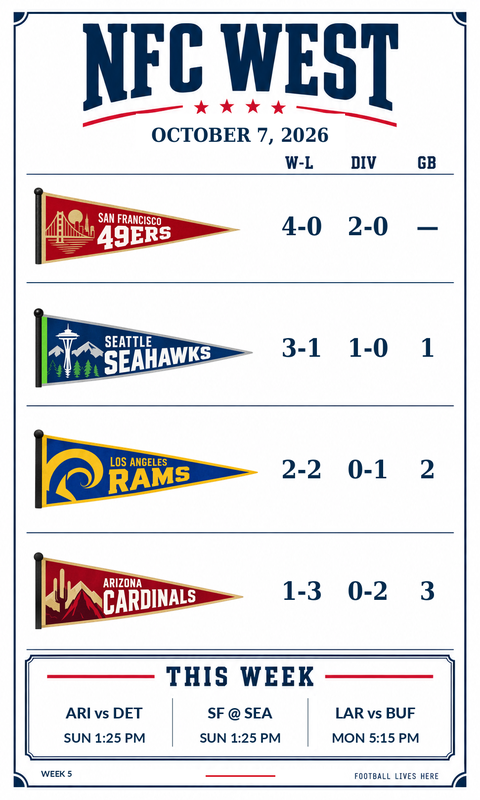
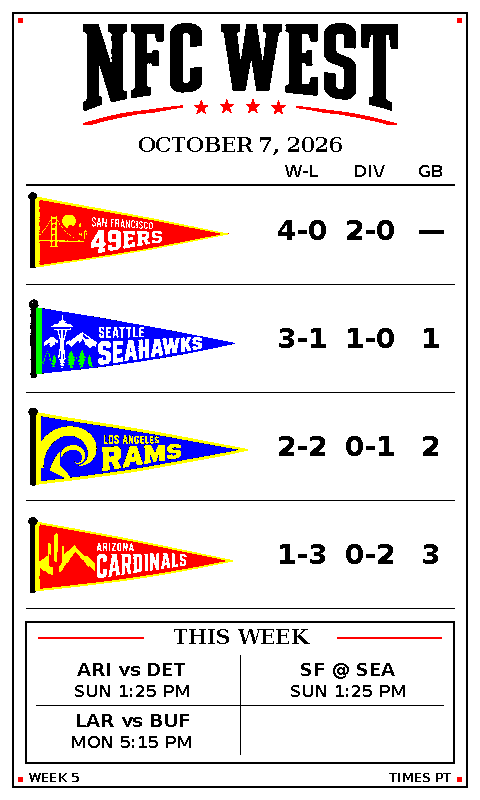
Optimize NFC West artwork for E1002 and add text-only pennants

diff --git a/nfl.html b/nfl.html
@@ -30,7 +30,8 @@
     <section class="card">
       <img id="display" src="public/nfl_nfc_west.png" alt="NFC West standings e-paper display" width="480" height="800">
       <nav>
-        <a href="public/nfl_nfc_west.png">Open PNG</a>
+        <a href="public/nfl_nfc_west.png">Illustrated PNG</a>
+        <a href="public/nfl_nfc_west_text.png">Text-only PNG</a>
         <a href="https://github.com/Dave356w/sports-display-renderer">Repository</a>
       </nav>
       <div class="meta">The image is regenerated automatically by GitHub Actions.</div>

diff --git a/render_nfl.py b/render_nfl.py
@@ -1,8 +1,8 @@
 """Render the 7.3-inch e-paper NFC West standings collectible.
 
-This is the NFL companion to ``render.py``. It follows the same device path:
-compose at the 971x1619 artwork resolution, overlay live data, then downsample
-to the reTerminal E1002's native 480x800 portrait pixel grid.
+This is the NFL companion to ``render.py``. Artwork is scaled first, then
+type and rules are drawn on the E1002's native 480x800 portrait pixel grid.
+The RGB PNG contains only the panel's six nominal colors, without dithering.
 
 Static artwork lives in ``assets/nfl/``. Dynamic overlays are:
   * current Pacific date
@@ -18,6 +18,7 @@ deterministic 2026 Week 1 layout test.
 from __future__ import annotations
 
 import csv
+import colorsys
 import io
 import os
 from datetime import datetime, timedelta
@@ -47,22 +48,28 @@ TIE_ORDER = {abbr: i for i, abbr in enumerate(NFC_WEST)}
 # nflverse abbreviates the Rams "LA"; the artwork and layout use "LAR".
 TEAM_ALIASES = {"LA": "LAR"}
 
-NAVY = (4, 43, 78)
-GREY = (118, 135, 148)
-FONT_HEAVY = "/usr/share/fonts/truetype/lato/Lato-Heavy.ttf"
-FONT_BOLD = "/usr/share/fonts/truetype/lato/Lato-Bold.ttf"
-FONT_SERIF = "/usr/share/fonts/truetype/dejavu/DejaVuSerifCondensed-Bold.ttf"
+BLACK = (0, 0, 0)
+WHITE = (255, 255, 255)
+RED = (255, 0, 0)
+GREEN = (0, 255, 0)
+BLUE = (0, 0, 255)
+YELLOW = (255, 255, 0)
+PANEL_COLORS = (BLACK, WHITE, RED, GREEN, BLUE, YELLOW)
+FONT_HEAVY = "/usr/share/fonts/truetype/dejavu/DejaVuSans-Bold.ttf"
+FONT_BOLD = FONT_HEAVY
+FONT_SERIF = "/usr/share/fonts/truetype/dejavu/DejaVuSerif-Bold.ttf"
 FONT_FALLBACK = "/usr/share/fonts/truetype/dejavu/DejaVuSans-Bold.ttf"
 
-# Calibrated against the 971x1619 white-background NFC West master.
-ROW_CENTERS = (458, 704, 950, 1196)
-STAT_X = (610, 744, 865)  # W-L, DIV, GB
-DATE_X, DATE_Y = 486, 273
+# All layout measurements below are final device pixels.
+ROW_CENTERS = (230, 338, 446, 554)
+STAT_X = (302, 370, 431)  # W-L, DIV, GB
+STAT_WIDTHS = (68, 62, 44)
+DATE_X, DATE_Y = 240, 145
 # Where the pole's left edge lands once the transparent margin is trimmed off.
 # Set to the column SEA and LAR already hung from, so the two clubs that were
 # in line stay put and the two that were inset move out to meet them.
-PENNANT_POLE_X = 68
-PENNANT_MAX_SIZE = (487, 182)
+PENNANT_POLE_X = 28
+PENNANT_MAX_SIZE = (236, 91)
 # ARI's artwork trails ~27px of alpha=1..8 haze past its pole — invisible on the
 # panel but enough to defeat a plain alpha>0 trim, which would leave that club
 # hanging alone to the right. Ignore anything at or below this when measuring
@@ -297,7 +304,7 @@ def status_label(game: dict) -> str:
     return time_label(game["dt"])
 
 
-def load_pennant(abbr: str) -> Image.Image:
+def load_pennant(abbr: str, style: str = "illustrated") -> Image.Image:
     """The club's pennant, scaled to the row and trimmed to its own artwork.
 
     The four source files carry the same 2172x724 canvas but pad the artwork
@@ -310,6 +317,21 @@ def load_pennant(abbr: str) -> Image.Image:
     the pennants keep their relative lengths instead of being stretched to a
     uniform footprint.
     """
+    if style == "text":
+        # Regions in the generated exploration sheet. Kept as a separate asset
+        # so the original illustrated pennants remain available unchanged.
+        boxes = {
+            "SF": (23, 30, 1067, 419),
+            "SEA": (23, 436, 1067, 780),
+            "LAR": (23, 794, 1067, 1111),
+            "ARI": (23, 1122, 1067, 1420),
+        }
+        with Image.open(ASSETS / "text-only-pennants.png") as sheet:
+            pennant = sheet.crop(boxes[abbr]).convert("RGBA")
+        pennant.thumbnail(PENNANT_MAX_SIZE, Image.Resampling.LANCZOS)
+        return pennant
+    if style != "illustrated":
+        raise ValueError(f"Unknown pennant style: {style}")
     pennant_path = ASSETS / f"{abbr}.png"
     if not pennant_path.exists():
         raise FileNotFoundError(f"Missing NFL pennant artwork: {pennant_path}")
@@ -322,62 +344,124 @@ def load_pennant(abbr: str) -> Image.Image:
     return pennant.crop(bbox) if bbox else pennant
 
 
-def render(standings: list[dict], week: int | None, games: list[dict], now: datetime) -> Image.Image:
+def panel_artwork(source: Image.Image, *, title: bool = False) -> Image.Image:
+    """Flatten artwork to six nominal RGB primaries, with no error diffusion.
+
+    Hue mapping deliberately preserves navy as blue and burgundy as red in
+    pennants: nearest-RGB quantization would collapse both to black. The title
+    uses black instead of navy. Whites/neutral shadows are thresholded, avoiding
+    the gray or cream pixels that a downstream converter can turn into speckles.
+    These are encoding colors, not a claim of measured physical ink appearance.
+    """
+    rgba = source.convert("RGBA")
+    flat = Image.new("RGBA", rgba.size, WHITE + (255,))
+    flat.alpha_composite(rgba)
+    rgb = flat.convert("RGB")
+    mapping = {}
+    for color in set(rgb.getdata()):
+        r, g, b = color
+        hue, saturation, value = colorsys.rgb_to_hsv(r / 255, g / 255, b / 255)
+        if value < 0.18:
+            ink = BLACK
+        elif saturation < 0.24:
+            ink = WHITE if value >= 0.60 else BLACK
+        elif min(color) >= 175:
+            ink = WHITE
+        elif hue < 0.095 or hue >= 0.92:
+            ink = RED
+        elif title:
+            ink = BLACK
+        elif hue < 0.19:
+            ink = YELLOW
+        elif hue < 0.48:
+            ink = GREEN
+        else:
+            ink = BLUE
+        mapping[color] = ink
+    rgb.putdata([mapping[color] for color in rgb.getdata()])
+    return rgb
+
+
+def fitted_font(text: str, path: str, size: int, width: int, minimum: int = 14):
+    """Fit a complete label, including late-season/tied records, to its cell."""
+    for candidate in range(size, minimum - 1, -1):
+        font = load_font(path, candidate)
+        left, _, right, _ = font.getbbox(text)
+        if max(right - left, font.getlength(text)) <= width:
+            return font
+    raise ValueError(f"Label does not fit in {width}px at {minimum}px: {text!r}")
+
+
+def render(standings: list[dict], week: int | None, games: list[dict], now: datetime,
+           pennant_style: str = "illustrated") -> Image.Image:
     background = ASSETS / "background.png"
     if not background.exists():
         raise FileNotFoundError(f"Missing NFL background artwork: {background}")
-    img = Image.open(background).convert("RGBA")
+    img = Image.new("RGB", DEVICE_OUTPUT_SIZE, WHITE)
+    # Retain the original vintage masthead; draw structural artwork directly at
+    # native size so one-pixel rules and small glyphs are never downsampled.
+    with Image.open(background) as master:
+        title = master.convert("RGB").resize(DEVICE_OUTPUT_SIZE, Image.Resampling.LANCZOS)
+        img.paste(panel_artwork(title.crop((32, 16, 448, 125)), title=True), (32, 16))
     draw = ImageDraw.Draw(img)
+    draw.fontmode = "1"  # hard black/white glyph edges, no gray antialias pixels
+    draw.rectangle((12, 12, 467, 787), outline=BLACK, width=2)
+    for x in (20, 459):
+        for y in (20, 779):
+            draw.rectangle((x - 2, y - 2, x + 2, y + 2), fill=RED)
 
-    # The generated background includes placeholder date/footer text, so clear
-    # those dynamic zones and redraw them with live values.
-    draw.rectangle((275, 230, 697, 303), fill=(255, 255, 255, 255))
-    draw.text(
-        (DATE_X, DATE_Y),
-        now.strftime("%B %-d, %Y").upper(),
-        font=load_font(FONT_SERIF, 39),
-        fill=NAVY,
-        anchor="mm",
-    )
+    date = now.strftime("%B %-d, %Y").upper()
+    draw.text((DATE_X, DATE_Y), date,
+              font=fitted_font(date, FONT_SERIF, 20, 420), fill=BLACK, anchor="mm")
+    for x, label in zip(STAT_X, ("W-L", "DIV", "GB")):
+        draw.text((x, 171), label, font=load_font(FONT_HEAVY, 16), fill=BLACK, anchor="mm")
+    draw.line((26, 184, 454, 184), fill=BLACK, width=2)
 
-    stat_font = load_font(FONT_SERIF, 51)
     for slot, row in enumerate(standings[:4]):
-        pennant = load_pennant(row['abbr'])
+        pennant = panel_artwork(load_pennant(row["abbr"], pennant_style))
         cy = ROW_CENTERS[slot]
-        py = int(cy - pennant.height / 2)
-        img.alpha_composite(pennant, (PENNANT_POLE_X, py))
-        draw.text((STAT_X[0], cy), row["wl"], font=stat_font, fill=NAVY, anchor="mm")
-        draw.text((STAT_X[1], cy), row["div"], font=stat_font, fill=NAVY, anchor="mm")
-        draw.text((STAT_X[2], cy), row["gb"], font=stat_font, fill=NAVY, anchor="mm")
+        img.paste(pennant, (PENNANT_POLE_X, cy - pennant.height // 2))
+        for x, width, key in zip(STAT_X, STAT_WIDTHS, ("wl", "div", "gb")):
+            value = row[key]
+            draw.text((x, cy), value,
+                      font=fitted_font(value, FONT_HEAVY, 28, width, minimum=16),
+                      fill=BLACK, anchor="mm")
+        draw.line((26, cy + 54, 454, cy + 54), fill=BLACK, width=1)
 
-    # Variable-width weekly schedule columns: normally 3 or 4 unique games.
+    # A 2x2 grid guarantees the same readable type size for up to four games.
+    # Scores stay in the same left-to-right order as the matchup names.
+    draw.rectangle((25, 621, 454, 763), outline=BLACK, width=2)
+    draw.text((240, 637), "THIS WEEK", font=load_font(FONT_SERIF, 20), fill=BLACK, anchor="mm")
+    draw.line((38, 637, 143, 637), fill=RED, width=2)
+    draw.line((337, 637, 441, 637), fill=RED, width=2)
     if games:
-        games = games[:4]
-        left, right = 74, 897
-        width = (right - left) / len(games)
-        for i, game in enumerate(games):
-            cx = left + width * (i + 0.5)
-            if i:
-                sx = int(left + width * i)
-                draw.line((sx, 1413, sx, 1510), fill=GREY, width=2)
-            name_size = 31 if len(games) <= 3 else 24
-            time_size = 27 if len(games) <= 3 else 21
-            draw.text((cx, 1442), matchup_label(game), font=load_font(FONT_HEAVY, name_size), fill=NAVY, anchor="mm")
-            draw.text((cx, 1492), status_label(game), font=load_font(FONT_BOLD, time_size), fill=NAVY, anchor="mm")
+        visible_games = games[:4]
+        two_rows = len(visible_games) > 2
+        draw.line((240, 655, 240, 754), fill=BLACK, width=1)
+        if two_rows:
+            draw.line((36, 705, 443, 705), fill=BLACK, width=1)
+        for i, game in enumerate(visible_games):
+            cx = 132 if i % 2 == 0 else 348
+            cy = (670 + (i // 2) * 51) if two_rows else 688
+            name, status = matchup_label(game), status_label(game)
+            draw.text((cx, cy), name,
+                      font=fitted_font(name, FONT_HEAVY, 18, 192, minimum=16), fill=BLACK, anchor="mm")
+            draw.text((cx, cy + 21), status,
+                      font=fitted_font(status, FONT_BOLD, 16, 192, minimum=15), fill=BLACK, anchor="mm")
     else:
-        draw.text((486, 1464), "SCHEDULE UNAVAILABLE", font=load_font(FONT_BOLD, 28), fill=NAVY, anchor="mm")
+        draw.text((240, 704), "NO GAMES THIS WEEK" if week is not None else "SCHEDULE UNAVAILABLE",
+                  font=load_font(FONT_BOLD, 17), fill=BLACK, anchor="mm")
 
-    draw.rectangle((68, 1547, 160, 1584), fill=(255, 255, 255, 255))
-    draw.text((83, 1565), f"WEEK {week or '—'}", font=load_font(FONT_BOLD, 17), fill=NAVY, anchor="lm")
-
-    img = img.resize(DEVICE_OUTPUT_SIZE, Image.Resampling.LANCZOS)
-    return img.convert("RGB")
+    draw.text((28, 777), f"WEEK {week or '—'}", font=load_font(FONT_BOLD, 12), fill=BLACK, anchor="lm")
+    draw.text((452, 777), "TIMES PT", font=load_font(FONT_BOLD, 12), fill=BLACK, anchor="rm")
+    return img
 
 
 def main():
     now = datetime.now(DISPLAY_TZ)
 
     if os.getenv("NFL_SAMPLE") == "1":
+        now = datetime(2026, 9, 10, 12, 0, tzinfo=DISPLAY_TZ)
         games, week = sample_season()
     else:
         try:
@@ -401,6 +485,10 @@ def main():
     OUT.parent.mkdir(parents=True, exist_ok=True)
     output.save(OUT, format="PNG", optimize=True)
     print(f"Wrote {OUT} ({output.size[0]}x{output.size[1]})")
+    # Keep the text-only exploration current using the exact same data snapshot.
+    text_out = OUT.with_name("nfl_nfc_west_text.png")
+    render(standings, week, schedule, now, pennant_style="text").save(text_out, format="PNG", optimize=True)
+    print(f"Wrote {text_out}")
 
 
 if __name__ == "__main__":

diff --git a/tests/test_nfl_display.py b/tests/test_nfl_display.py
@@ -1,0 +1,53 @@
+"""Device-output gates: palette, bounds, and the schedule's widest cases."""
+import unittest
+from datetime import datetime
+
+import render_nfl as nfl
+
+
+class DisplayTests(unittest.TestCase):
+    def setUp(self):
+        self.now = datetime(2026, 9, 10, 12, tzinfo=nfl.DISPLAY_TZ)
+        self.games, self.week = nfl.sample_season()
+        self.rows = nfl.compute_standings(self.games)
+
+    def test_native_palette_and_schedule_variants(self):
+        fourth = dict(self.games[0], home="ARI", away="WAS", home_score=100, away_score=100)
+        games = self.games + [fourth]
+        for style in ("illustrated", "text"):
+            for count in range(5):
+                with self.subTest(style=style, games=count):
+                    img = nfl.render(self.rows, self.week, games[:count], self.now, style)
+                    self.assertEqual(img.size, (480, 800))
+                    self.assertEqual(img.mode, "RGB")
+                    self.assertLessEqual(set(img.getdata()), set(nfl.PANEL_COLORS))
+                    # The 12px physical-frame margin must remain blank.
+                    self.assertEqual(set(img.crop((0, 0, 480, 12)).getdata()), {nfl.WHITE})
+
+    def test_late_season_records_fit_stat_columns(self):
+        for row in self.rows:
+            row.update(wl="10-6-1", div="3-2-1", gb="16.5")
+        nfl.render(self.rows, 18, self.games, self.now, "text")
+        for row in self.rows:
+            for key, width in zip(("wl", "div", "gb"), nfl.STAT_WIDTHS):
+                font = nfl.fitted_font(row[key], nfl.FONT_HEAVY, 28, width, 16)
+                self.assertLessEqual(font.getlength(row[key]), width)
+        for abbr in nfl.NFC_WEST:
+            for style in ("illustrated", "text"):
+                pennant = nfl.load_pennant(abbr, style)
+                self.assertLess(nfl.PENNANT_POLE_X + pennant.width,
+                                nfl.STAT_X[0] - nfl.STAT_WIDTHS[0] // 2)
+                self.assertLessEqual(pennant.height, 91)
+
+    def test_all_kickoff_labels_fit_at_readable_size(self):
+        for day in range(7):
+            for hour in range(24):
+                dt = self.now.replace(day=day + 1, hour=hour, minute=59)
+                label = nfl.time_label(dt)
+                font = nfl.fitted_font(label, nfl.FONT_BOLD, 16, 192, 15)
+                self.assertGreaterEqual(font.size, 15)
+                self.assertLessEqual(font.getlength(label), 192)
+
+
+if __name__ == "__main__":
+    unittest.main()

diff --git a/README.md b/README.md
@@ -2,7 +2,7 @@
 
 Renderer for the 7.3-inch reTerminal E1002 e-paper sports collectible display.
 
-The repository contains independent MLB and NFL renderers. Both compose at high resolution and then downsample to the panel's native 480x800 portrait pixel grid.
+The repository contains independent MLB and NFL renderers. Both output the panel's native 480x800 portrait pixel grid. The NFL renderer draws text and rules directly at device resolution; the MLB renderer retains its original master/downsample pipeline.
 
 ## MLB — NL West
 
@@ -27,11 +27,23 @@ Output: `public/mlb_nl_west.png`
 - games behind the division leader
 - the current week's unique NFC West matchups, each showing its Pacific kickoff time until the game is final and its score afterwards
 
-Schedule and result data come from [nflverse's `games.csv`](https://github.com/nflverse/nfldata), a keyless static file served off GitHub — no API key, quota, or user-agent gate. Standings are computed from completed regular-season games rather than read from a standings feed. The renderer keeps the MLB implementation's 971x1619 master -> 480x800 E1002 downsample path.
+Schedule and result data come from [nflverse's `games.csv`](https://github.com/nflverse/nfldata), a keyless static file served off GitHub — no API key, quota, or user-agent gate. Standings are computed from completed regular-season games rather than read from a standings feed. The NFL renderer scales the artwork first, then draws solid black text and pixel-aligned rules at the final 480x800 resolution. The weekly schedule uses a two-column grid with 18px matchup text and 16px status text (fitting down to 16/15px only if required).
 
 Clubs tied on winning percentage are ordered by a fixed NFC West fallback, not the NFL's full tiebreaker sequence.
 
-Artwork lives in `assets/nfl/`: `background.png` (971x1619 master) plus one 2172x724 pennant per club (`SF.png`, `SEA.png`, `LAR.png`, `ARI.png`).
+Artwork lives in `assets/nfl/`: `background.png` (971x1619 master) plus one 2172x724 illustrated pennant per club (`SF.png`, `SEA.png`, `LAR.png`, `ARI.png`). The original masthead and illustrated pennants are retained. `text-only-pennants.png` is a separate generated concept sheet with oversized team lettering and no small illustrations; the renderer crops its four regions at runtime.
+
+### E1002 artwork treatment
+
+- Exact 480x800 portrait RGB PNG; no final resizing of text, no dithering.
+- Six nominal encoding colors only: black, white, red, green, blue, yellow. These are not measured physical ink colors. Dark team blues/reds are mapped by hue so a nearest-RGB conversion does not erase the pennants into black.
+- White background, solid black numbers, 1–2px rules and a 12px outer margin.
+- A two-column schedule keeps four games readable; long/tied standings records fit their own column without overlapping.
+- Two outputs share one data snapshot: `public/nfl_nfc_west.png` (illustrated) and `public/nfl_nfc_west_text.png` (text-only exploration). The existing page keeps the illustrated version as its default.
+
+Display the PNG at 1:1 resolution. In the device/content software, avoid additional smoothing, resizing, or dithering where configurable. If firmware expects a landscape 800x480 buffer, rotate the portrait image by 90 degrees without resampling rather than stretching it. Actual contrast and colors still need a check on the physical screen.
+
+Hardware reference: [Seeed E1002 specifications](https://wiki.seeedstudio.com/getting_started_with_reterminal_e1002/).
 
 ![NFC West Standings](https://raw.githubusercontent.com/Dave356w/sports-display-renderer/main/public/nfl_nfc_west.png)
 
@@ -40,13 +52,13 @@ pip install -r requirements.txt
 python render_nfl.py
 ```
 
-Deterministic 2026 Week 1 layout test:
+Deterministic 2026 Week 1 layout sample (fixed date, not live results):
 
 ```bash
 NFL_SAMPLE=1 python render_nfl.py
 ```
 
-Output: `public/nfl_nfc_west.png`
+Outputs: `public/nfl_nfc_west.png` and `public/nfl_nfc_west_text.png`
 
 ### NFC West page
 
